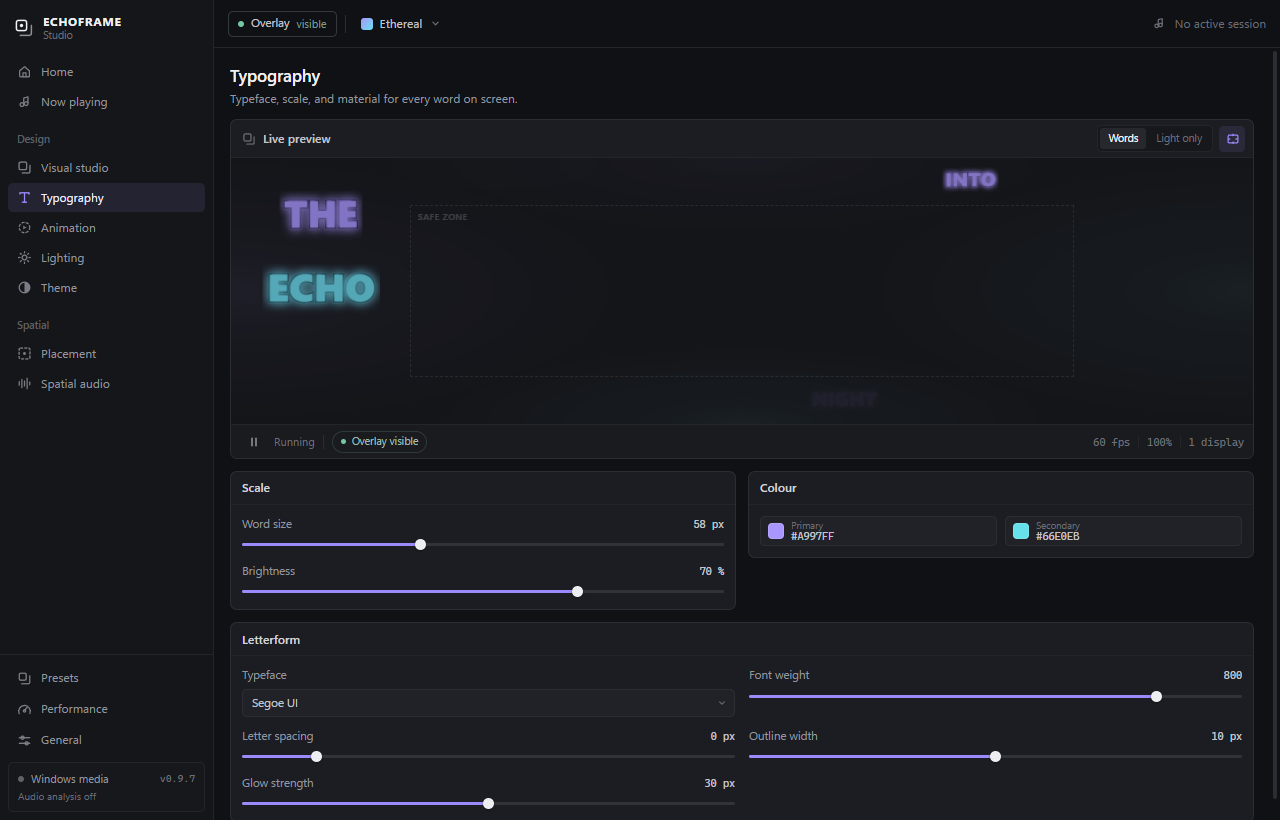
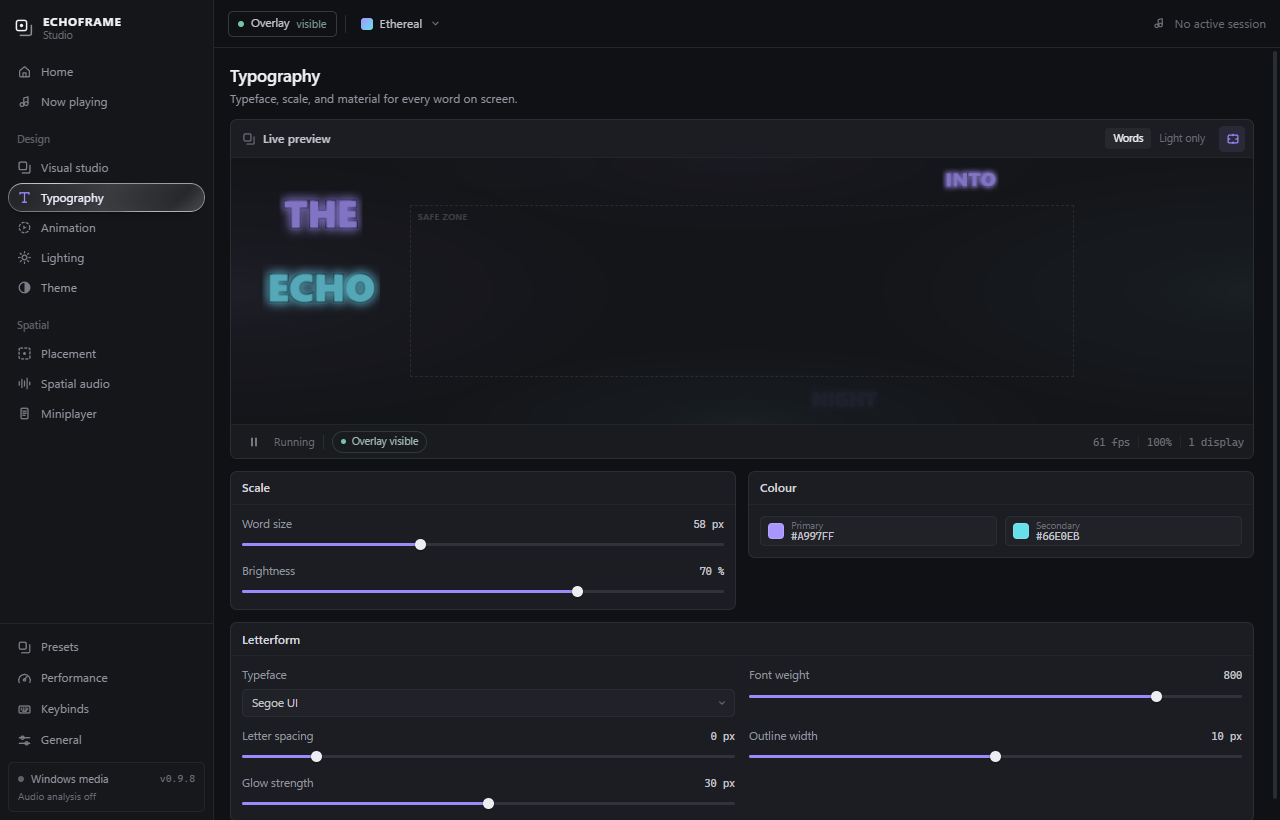
Add a Liquid Glass treatment to the studio tab selector
- selected sidebar tab becomes a translucent glass capsule with a specular sweep and conic rim
- hover adds a faint glass wash, rotates the rim light, and moves the highlight
- press applies a compact 3D compression and deepens the lower reflection
- animatable @property angles drive the rim and sheen; 400ms eased transitions
- revert the earlier segmented-control glass; those selectors keep their original style
- respects reduced motion and the menu animation switch; docs screenshots refreshed

diff --git a/src/style.css b/src/style.css
@@ -1,5 +1,16 @@
 /* ECHOFRAME Studio — design system -------------------------------------- */
 
+@property --tab-angle {
+  syntax: "<angle>";
+  inherits: false;
+  initial-value: -75deg;
+}
+@property --tab-sheen {
+  syntax: "<angle>";
+  inherits: false;
+  initial-value: -45deg;
+}
+
 :root {
   color-scheme: dark;
   --bg: #101114;
@@ -22,6 +33,8 @@
   --danger: #E4878B;
   --radius: 7px;
   --radius-sm: 5px;
+  --anim--hover-time: 400ms;
+  --anim--hover-ease: cubic-bezier(.25, 1, .5, 1);
   --font: "Segoe UI Variable Text", "Segoe UI", Inter, system-ui, -apple-system, sans-serif;
   --mono: "Cascadia Mono", Consolas, "Courier New", monospace;
   font-family: var(--font);
@@ -87,18 +100,115 @@ a:hover { color: var(--text); }
 .nav-label { display: block; padding: 4px 9px 5px; font-size: 10.5px; font-weight: 600; color: #5F6169; }
 
 .nav-item {
+  position: relative;
   width: 100%; height: 29px;
   display: flex; align-items: center; gap: 9px;
   padding: 0 9px; margin: 1px 0;
-  border: 0; border-radius: var(--radius-sm);
+  border: 0; border-radius: 999px;
   background: transparent; color: var(--text-3);
   font-size: 12px; text-align: left;
-  transition: background .12s ease, color .12s ease;
+  isolation: isolate;
+  transform-origin: center;
+  transition:
+    background-color var(--anim--hover-time) var(--anim--hover-ease),
+    color .18s ease,
+    transform var(--anim--hover-time) var(--anim--hover-ease),
+    box-shadow var(--anim--hover-time) var(--anim--hover-ease),
+    backdrop-filter var(--anim--hover-time) var(--anim--hover-ease);
 }
-.nav-item svg { width: 15px; height: 15px; flex: none; color: #7B7D86; transition: color .12s ease; }
-.nav-item:hover { background: #1B1D22; color: var(--text-2); }
+.nav-item > svg, .nav-item > span { position: relative; z-index: 3; }
+.nav-item svg { width: 15px; height: 15px; flex: none; color: #7B7D86; transition: color .18s ease; }
+
+/* Specular sweep across the glass. */
+.nav-item::before {
+  content: '';
+  position: absolute; inset: 1px; z-index: 1;
+  border-radius: inherit;
+  background: linear-gradient(
+    var(--tab-sheen),
+    rgba(255, 255, 255, 0) 0%,
+    rgba(255, 255, 255, .32) 40% 50%,
+    rgba(255, 255, 255, 0) 55%
+  );
+  background-size: 200% 200%;
+  background-position: 0% 50%;
+  background-repeat: no-repeat;
+  mix-blend-mode: screen;
+  opacity: 0;
+  pointer-events: none;
+  transition:
+    background-position calc(var(--anim--hover-time) * 1.25) var(--anim--hover-ease),
+    --tab-sheen calc(var(--anim--hover-time) * 1.25) var(--anim--hover-ease),
+    opacity .18s ease;
+}
+
+/* Refracted conic rim around the glass edge. */
+.nav-item::after {
+  content: '';
+  position: absolute; inset: 0; z-index: 2;
+  border-radius: inherit;
+  padding: 1px;
+  box-sizing: border-box;
+  background:
+    conic-gradient(
+      from var(--tab-angle) at 50% 50%,
+      rgba(255, 255, 255, .55),
+      rgba(255, 255, 255, 0) 5% 40%,
+      rgba(255, 255, 255, .45) 50%,
+      rgba(255, 255, 255, 0) 60% 95%,
+      rgba(255, 255, 255, .55)
+    ),
+    linear-gradient(180deg, rgba(255, 255, 255, .15), rgba(255, 255, 255, .10));
+  -webkit-mask: linear-gradient(#000 0 0) content-box, linear-gradient(#000 0 0);
+  -webkit-mask-composite: xor;
+  mask: linear-gradient(#000 0 0) content-box, linear-gradient(#000 0 0);
+  mask-composite: exclude;
+  box-shadow: inset 0 0 0 .5px rgba(255, 255, 255, .35);
+  opacity: 0;
+  pointer-events: none;
+  transition:
+    opacity .18s ease,
+    --tab-angle calc(var(--anim--hover-time) * 1.25) var(--anim--hover-ease);
+}
+
+.nav-item:hover { transform: scale(.98); color: var(--text-2); }
+.nav-item:hover:not(.selected) { background-color: rgba(255, 255, 255, .045); }
 .nav-item:hover svg { color: var(--text-3); }
-.nav-item.selected { background: var(--accent-soft); color: #ECE9FE; }
+.nav-item:hover::before, .nav-item.selected::before { opacity: .5; }
+.nav-item:hover::before { background-position: 25% 50%; }
+.nav-item:hover::after, .nav-item.selected::after { opacity: 1; }
+.nav-item:hover::after { --tab-angle: -125deg; }
+.nav-item:active { transform: perspective(320px) rotateX(10deg) scale(.975); }
+.nav-item:active::before { background-position: 50% 15%; --tab-sheen: -15deg; }
+.nav-item:active::after { --tab-angle: -75deg; }
+
+.nav-item.selected {
+  color: #F2EFFF;
+  background: linear-gradient(-75deg, rgba(255, 255, 255, .05), rgba(255, 255, 255, .16), rgba(255, 255, 255, .05));
+  backdrop-filter: blur(10px) saturate(135%);
+  box-shadow:
+    inset 0 1px 0 rgba(255, 255, 255, .26),
+    inset 0 -1px 0 rgba(255, 255, 255, .14),
+    inset 0 0 12px rgba(255, 255, 255, .035),
+    0 4px 12px -8px rgba(0, 0, 0, .7),
+    0 1px 2px rgba(0, 0, 0, .28);
+}
+.nav-item.selected::before { opacity: .34; }
+.nav-item.selected:hover::before { opacity: .55; }
+.nav-item.selected:hover {
+  box-shadow:
+    inset 0 1px 0 rgba(255, 255, 255, .32),
+    inset 0 -1px 0 rgba(255, 255, 255, .18),
+    inset 0 0 14px rgba(255, 255, 255, .05),
+    0 5px 14px -8px rgba(0, 0, 0, .75),
+    0 1px 2px rgba(0, 0, 0, .3);
+}
+.nav-item.selected:active {
+  box-shadow:
+    inset 0 1px 0 rgba(255, 255, 255, .34),
+    inset 0 -2px 8px -4px rgba(255, 255, 255, .3),
+    0 2px 6px -4px rgba(0, 0, 0, .6);
+}
 .nav-item.selected svg { color: var(--accent); }
 
 .sidebar-foot { flex: none; padding: 8px; border-top: 1px solid var(--border); }
@@ -261,7 +371,13 @@ a:hover { color: var(--text); }
 .group-head h2 { font-size: 12px; font-weight: 600; color: #D2D3D9; }
 .group-note { font-size: 10.5px; color: var(--text-4); }
 .group-body { display: flex; flex-direction: column; gap: 11px; padding: 11px; }
-.group-body > .btn { align-self: flex-start; }
+.group-body > .seg { display: inline-flex; padding: 2px; gap: 2px; background: #17181C; border: 1px solid var(--border); border-radius: var(--radius-sm); }
+.seg button { height: 21px; padding: 0 8px; border: 0; border-radius: 3px; background: transparent; color: var(--text-4); font-size: 10.5px; }
+.seg button:hover { color: var(--text-2); }
+.seg button.on { background: var(--surface-3); color: var(--text); }
+.seg.seg-wide { display: flex; width: 100%; max-width: 220px; }
+.seg.seg-wide button { flex: 1; height: 23px; }
+.btn { align-self: flex-start; }
 .group-body.col-2, .col-2 { display: grid; grid-template-columns: 1fr 1fr; gap: 11px 14px; }
 .span-2 { grid-column: 1 / -1; }
 
@@ -368,12 +484,6 @@ select option { background: #1B1D22; color: var(--text); }
 .edge-picker button:hover { color: var(--text-2); background: #202227; }
 .edge-picker button.on { background: var(--surface-3); color: var(--text); }
 
-.seg { display: inline-flex; padding: 2px; gap: 2px; background: #17181C; border: 1px solid var(--border); border-radius: var(--radius-sm); }
-.seg button { height: 21px; padding: 0 8px; border: 0; border-radius: 3px; background: transparent; color: var(--text-4); font-size: 10.5px; }
-.seg button:hover { color: var(--text-2); }
-.seg button.on { background: var(--surface-3); color: var(--text); }
-.seg.seg-wide { display: flex; width: 100%; max-width: 220px; }
-.seg.seg-wide button { flex: 1; height: 23px; }
 
 .btn {
   display: inline-flex; align-items: center; justify-content: center; gap: 6px;
